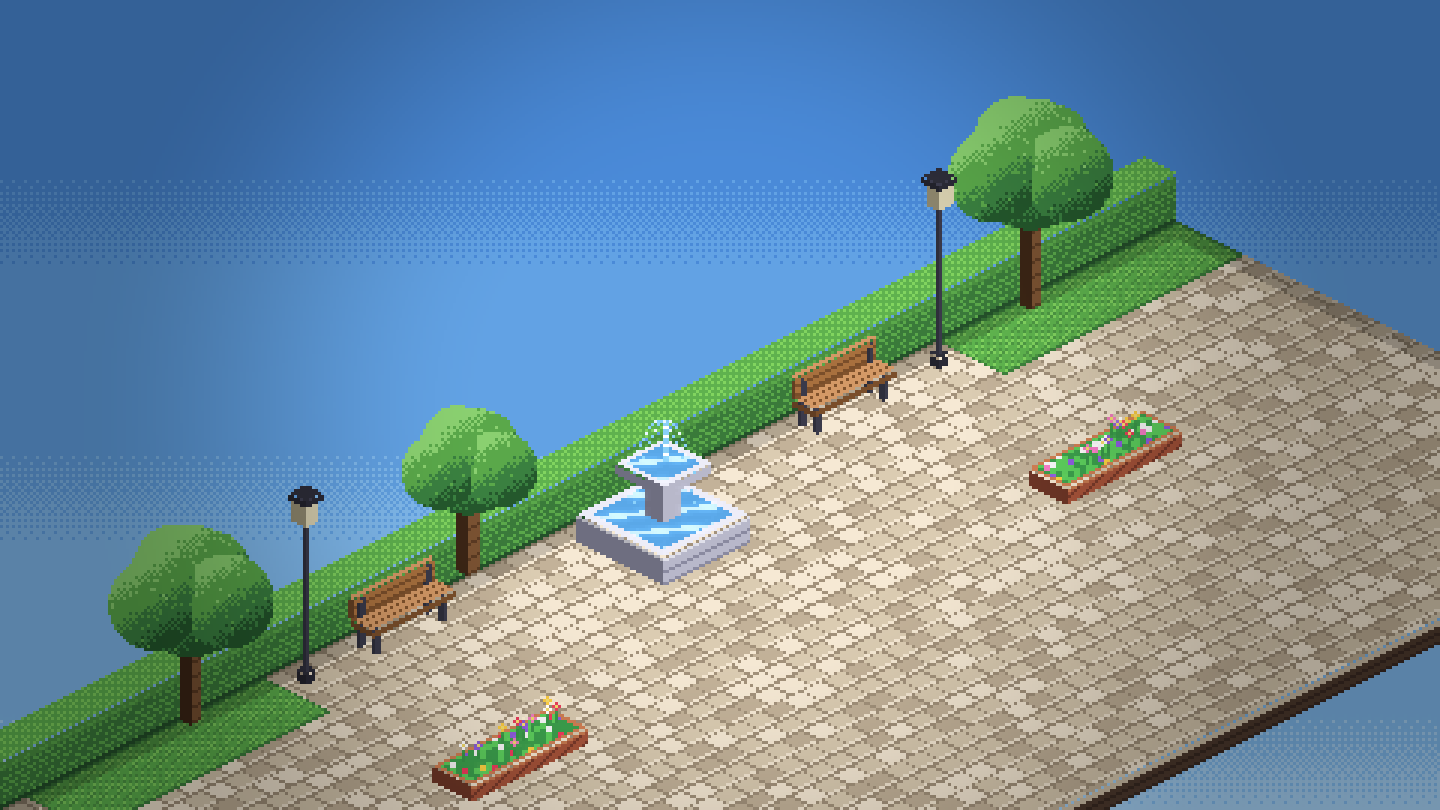
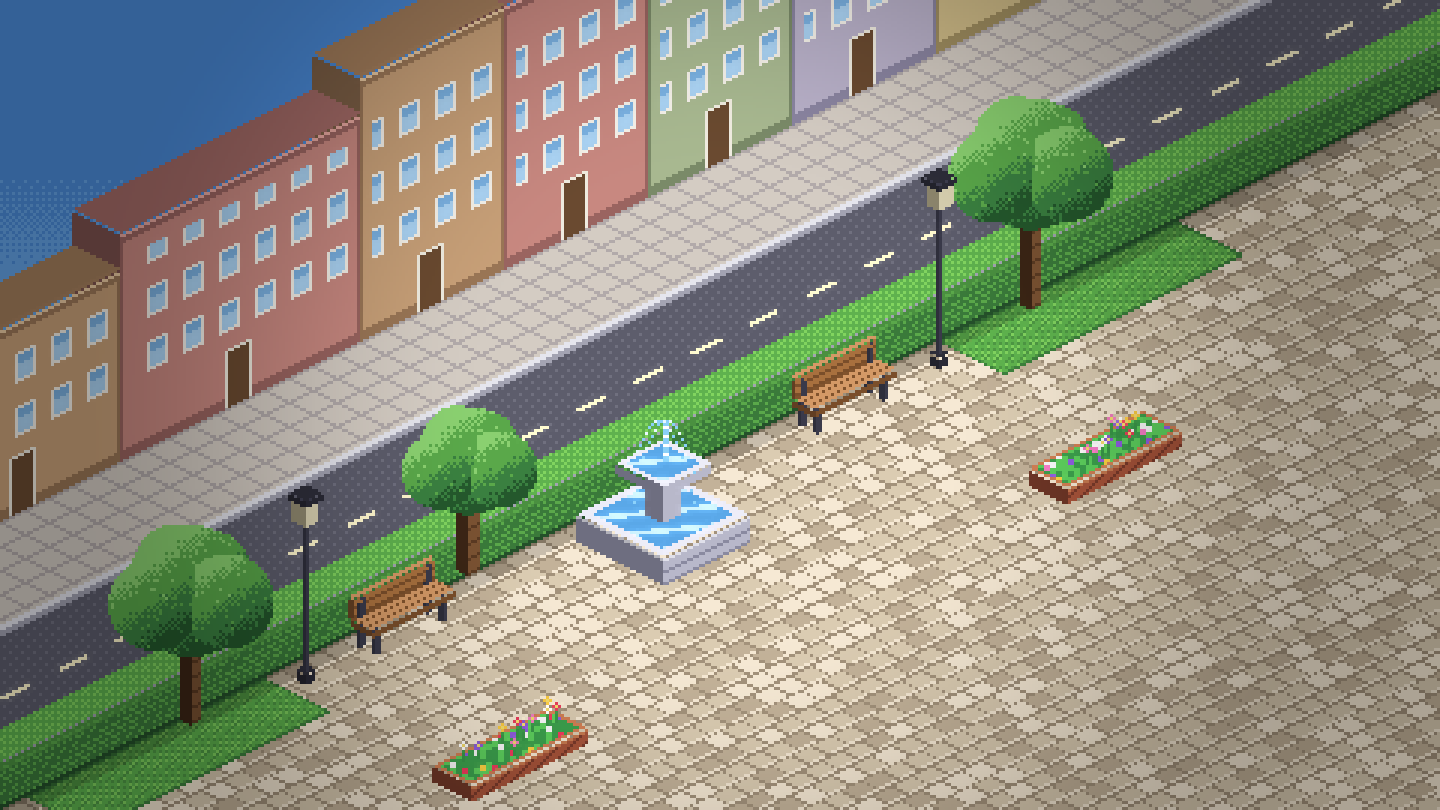
Praça diagonal maior: chão além da tela, rua e prédios no fundo (sem efeito de flutuar)
Claude-Session: https://claude.ai/code/session_01L9V3oFJb1ahcbymZHH8qbL

diff --git a/motor/cenarios/comodoDiagonal.js b/motor/cenarios/comodoDiagonal.js
@@ -534,8 +534,10 @@ export function gerarComodoDiagonal(opc = {}) {
   ALT = cfg.alturaParede ?? 200;
   // O piso continua até perto da câmera (profundidade 11) e o cômodo vai para a esquerda até onde a câmera
   // e os personagens chegam (inicio vem da vista): o enquadramento fica sempre cheio, sem vazio preto.
-  const Ja = -cfg.fim, Jb = -cfg.inicio, P = cfg.profundidade ?? 11;   // j cresce para a esquerda: o fim (direita) é Ja
-  const I0 = -0.8, I1 = P + 1, J0 = Ja - 1, J1 = Jb + 1, HMAX = ALT + 30;
+  const Ja = -cfg.fim, Jb = -cfg.inicio, P = cfg.profundidade ?? (exterior ? 20 : 11);   // j cresce para a esquerda: o fim (direita) é Ja
+  // ao ar livre a praça continua além da tela: rua e prédios no fundo (IB) e calçamento para a direita (JR)
+  const IB = exterior ? -7 : 0, JR = exterior ? Ja - 14 : Ja;
+  const I0 = IB - 0.8, I1 = P + 1, J0 = JR - 1, J1 = Jb + 1, HMAX = ALT + 30;
   const OX = -(I0 - J1) * 16 + 4, OY = -(I0 + J0) * 8 + HMAX;
   const W = Math.ceil((I1 - J0) * 16 + OX + 8), H = Math.ceil((I1 + J1) * 8 + OY + 20);
   const proj = (i, j, h = 0) => ({ x: (i - j) * 16 + OX, y: (i + j) * 8 + OY - h });
@@ -546,12 +548,18 @@ export function gerarComodoDiagonal(opc = {}) {
   // piso (com a borda cortada na frente e na esquerda)
   const [t0, t1, t2] = chao.topo, [d0] = chao.terra;
   const tapetes = (cfg.piso || []).map((t) => ({ ...t, j0: -t.x - t.dj / 2, j1: -t.x + t.dj / 2 }));
-  B.prisma(0, P, Ja, Jb, -8, 8, {
+  B.prisma(IB, P, JR, Jb, -8, 8, {
     frente: (u, t) => (tema && t === 7 ? [tema.neon, 2] : t > 5 ? t1 : t % 3 === 0 ? '#3a2a22' : '#4e3a2e'),
     lado: (u, t) => (t > 5 ? t2 : '#3a2a22'),
     topo: (a, b, d, x, y) => {
-      const i = a, j = b + Ja;
+      const i = a + IB, j = b + JR;
       if (tema && (P - i < 0.07 || Jb - j < 0.05)) return [tema.neon, 2];       // borda da plataforma
+      if (exterior && i < 0) {                     // atrás da cerca viva: meio-fio, rua e calçada dos prédios
+        if (i > -0.75) return bayer(x, y) < 0.3 ? '#4a8a3a' : '#3a7a34';
+        if (i > -1.0 || (i < -3.6 && i > -3.85)) return i > -0.88 || i < -3.72 ? '#d8d8e0' : '#9a9aa8';
+        if (i > -3.6) { if (Math.abs(i + 2.3) < 0.06 && (((j % 1.2) + 1.2) % 1.2) < 0.6) return '#f0e8c0'; return bayer(x, y) < 0.12 ? '#6a6a78' : '#585866'; }
+        const fi = i * 2, fj = j * 2; return (fi - Math.floor(fi)) < 0.1 || (fj - Math.floor(fj)) < 0.08 ? '#a8a0a0' : '#c8c0b8';
+      }
       for (const tp of tapetes) if (i > tp.i0 && i < tp.i1 && j > tp.j0 && j < tp.j1) {
         const bi = Math.min(i - tp.i0, tp.i1 - i), bj = Math.min(j - tp.j0, tp.j1 - j);
         if (tp.grama) { const v = bayer(x, y) + (Math.sin(x * 1.7 + y * 2.3) * 0.15); return bi < 0.06 || bj < 0.06 ? '#3a7a3a' : v < 0.2 ? '#7ac85a' : v < 0.75 ? '#5aaa4a' : '#4a9040'; }
@@ -572,7 +580,7 @@ export function gerarComodoDiagonal(opc = {}) {
     },
   });
   // sombra suave junto às paredes
-  for (let k = 0; k < W * H; k++) if (B.tipo[k] && B.ph[k] === 0 && (B.pi[k] < 0.35 || B.pj[k] < Ja + 0.35)) B.face[k] = 0.86;
+  for (let k = 0; k < W * H; k++) if (B.tipo[k] && B.ph[k] === 0 && (exterior ? (B.pi[k] >= 0 && B.pi[k] < 0.35) : (B.pi[k] < 0.35 || B.pj[k] < Ja + 0.35))) B.face[k] = 0.86;
   // parede do fundo (i = 0) e parede lateral (j = Ja, à direita)
   const dFundo = (cfg.paredes || []).filter((d) => !d.lateral), dLat = (cfg.paredes || []).filter((d) => d.lateral);
   const corte = ['#5a4a5a', '#3a2e3a'];
@@ -580,7 +588,33 @@ export function gerarComodoDiagonal(opc = {}) {
   const pintaDecor = (lista, pos, t, cBase) => { for (const d of lista) { const c = corDecor(d, pos, t, noite); if (c) return c; } return cBase; };
   if (exterior) {
     // sem paredes: só uma cerca viva baixa no fundo (o céu aparece atrás)
-    if (cfg.cercaViva !== false) B.prisma(-0.7, 0, Ja, Jb, 0, 16, {
+    // fileira de prédios do outro lado da rua (o céu só aparece acima dos telhados)
+    const rp = rng((cfg.semente ?? 7) + 77);
+    const FACH = [['#e8c8a0', '#c8a078', '#9a7656'], ['#a8c8e0', '#88a8c8', '#68809e'], ['#f0e0b0', '#d0bc88', '#a08e60'],
+      ['#e8a8a0', '#c88880', '#9a6460'], ['#c8d8b0', '#a8b890', '#7a8a68'], ['#d8d0e8', '#b8b0c8', '#8a84a0']];
+    for (let j0 = JR; j0 < Jb; ) {
+      const larg = 3 + Math.floor(rp() * 3), j1 = Math.min(Jb, j0 + larg), alt = 64 + Math.floor(rp() * 4) * 12;
+      const [fc, fb, fs] = FACH[Math.floor(rp() * FACH.length)], sem = Math.floor(rp() * 1000);
+      B.prisma(IB, IB + 1, j0, j1, 0, alt, {
+        frente: (u, t, l) => {
+          const px = Math.floor(u * 16), L = Math.floor(l * 16);
+          if (t > alt - 4) return t > alt - 2 ? fc : fs;                                   // platibanda
+          if (px < 1 || px > L - 2) return fs;
+          const porta = Math.abs(px - Math.floor(L / 2)) < 5 && t < 20;
+          if (porta) return t > 18 || Math.abs(px - Math.floor(L / 2)) === 4 ? '#f0ece0' : '#6a4a30';
+          const cx = (px - 4) % 12, cy = (t - 26) % 18;
+          if (t > 24 && t < alt - 8 && px > 3 && px < L - 4 && cx >= 0 && cx < 7 && cy >= 0 && cy < 10) {
+            if (cx === 0 || cx === 6 || cy === 0 || cy === 9) return '#f4f0e8';
+            const k = ((sem + px * 13 + t * 7) >>> 3) % 3;
+            return noite ? (k ? ['#ffe890', 2] : '#1e2648') : cy > 5 ? '#7ab0e0' : '#a8d0f0';
+          }
+          return t < 4 ? fs : (t % 6 === 0 && cfg.tijolo ? fs : fb);
+        },
+        lado: () => fs, topo: () => fs,
+      });
+      j0 = j1;
+    }
+    if (cfg.cercaViva !== false) B.prisma(-0.7, 0, JR, Jb, 0, 16, {
       frente: (u, t) => (t < 2 ? '#24502a' : (bayer(Math.floor(u * 16), t) + Math.sin(u * 23 + t) * 0.2) < 0.3 ? '#5aa84a' : t > 12 ? '#4a9040' : '#3a7a3a'),
       lado: () => '#2a5a30', topo: (a, b, d, x, y) => (bayer(x, y) < 0.3 ? '#7ac85a' : '#5aa84a'),
     });

diff --git a/CLAUDE.md b/CLAUDE.md
@@ -170,7 +170,7 @@ a virada vem a **~70%** e o resto é a solução e o fechamento.
   `lista-compras` (abrindo), `malinha`. Cenários na biblioteca: `praca-festa`, `praca-festa-noite`, `rua-festa`
   (diagonal), `morro-mirante`, `rua-monstros`. Recursos novos do motor: ação `trocar`, `"sobre"`, `"balancar"`, clima `calor`.
 - **Diagonal nova — PROTÓTIPO, NÃO aprovado** (teste em `projetos/prototipo-diagonal`, `previa.png`): modo
-  `"exterior": true` do diorama (sem paredes, céu, cerca viva, piso `pedras`, tapete `grama`) e cômodos `praca`,
+  `"exterior": true` do diorama (sem paredes; chão vai além da tela; atrás da cerca viva: rua e fileira de prédios, céu só acima dos telhados; piso `pedras`, tapete `grama`) e cômodos `praca`,
   `praca-noite`, `praca-festa` (palanque: em cima `"y": 0.75`) + `quarto-menina` / `quarto-menina-noite`
   (diorama e lateral). Móveis novos do diorama: `fonte` (`seca`), `banco`, `arvore` (`altura`, `copa`, `folhas`),
   `poste`, `canteiro-flores` (`murcho`), `palanque-d`, `bandeirinhas`, `penteadeira`, `pufe`, `cavalete`.
